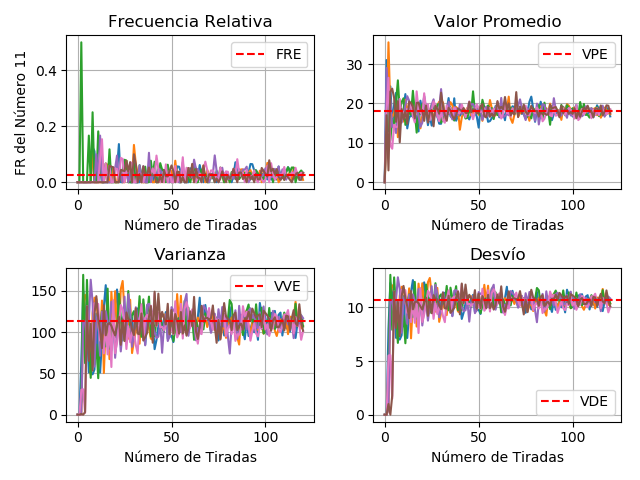
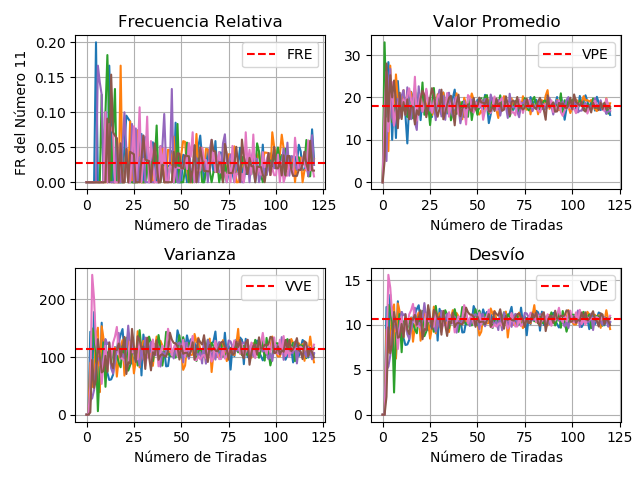
Average Results Array & Graphs, Improve Time Function & Window Position

diff --git a/TP1 - Roulette Analysis/__init__.py b/TP1 - Roulette Analysis/__init__.py
@@ -47,10 +47,30 @@ def calc_deviation_from_variance(variance):
 
 # Load (for Plotting) One Array of Results
 # Graphs Loaded: Relative Frecuency, Mean, Variance, Deviation (4-Graph Stack)
-def load_one_result_graphs(frecuencies, averages, variances, deviations, save):
-    # Subplots and Title Configs
+def load_one_result_graphs(frecuencies, averages, variances, deviations, save, final=False):
+    # Subplots Config
     fig, axs = plt.subplots(2, 2)
-    fig.canvas.set_window_title("Simulación de Ruleta: Análisis (de 0 a "+str(iterations)+" tiradas) - Stack 1")
+
+    # Title and Names Config
+    if final:
+        filename="final_"
+        message="3er 4-Stack de Gráficos"
+        fig.canvas.set_window_title("Análisis 3er Stack: Promedio de Arrays de Resultados (de 0 a "+str(iterations)+" tiradas)")
+    else:
+        filename="simple_"
+        message="1er 4-Stack de Gráficos"
+        fig.canvas.set_window_title("Análisis 1er Stack: 1 Array de Resultados (de 0 a "+str(iterations)+" tiradas)")
+
+    # Set Window Position
+    manager = plt.get_current_fig_manager() # Current Window's Manager
+    screen_x, screen_y = manager.window.wm_maxsize() # Screen Size
+    if final:
+        coord_x = str(int(screen_x/4))
+        coord_y = str(int(screen_y/2))
+    else:
+        coord_x = ("0")
+        coord_y = ("0")
+    manager.window.wm_geometry("+" + coord_x + "+" + coord_y) # Set Values
 
     # Relative Frecuencies Graph
     axs[0, 0].plot(frecuencies, 'tab:blue', label="FRN")
@@ -83,18 +103,27 @@ def load_one_result_graphs(frecuencies, averages, variances, deviations, save):
     # Save Plot (PNG Image)
     if save:
         try:
-            plt.savefig(save_route+"graph_iterations_"+str(iterations)+".png")
-            print("1er 4-Stack de Gráficos Guardado Correctamente")
+            plt.savefig(save_route + filename + "graph_iterations_" + str(iterations) + ".png")
+            print(message + " Guardado Correctamente")
         except:
-            print("1er 4-Stack de Gráficos NO fue guardado porque hubo un problema")
+            print(message + " NO fue guardado porque hubo un problema")
         print()
 
 # Load (for Plotting) Every Array of Results Simultaneously
 # Graphs Loaded: Relative Frecuency, Mean, Variance, Deviation (4-Graph Stack)
 def load_every_result_graphs(frecuencies, averages, variances, deviations, save):
-    # Subplots and Title Configs
+    # Subplots Config
     fig, axs = plt.subplots(2, 2)
-    fig.canvas.set_window_title("Simulación de Ruleta: Análisis (de 0 a "+str(iterations)+" tiradas) - Stack 2")
+
+    # Title Config
+    fig.canvas.set_window_title("Análisis 2do Stack: Todos los Arrays de Resultados (de 0 a "+str(iterations)+" tiradas)")
+
+    # Set Window Position
+    manager = plt.get_current_fig_manager() # Current Window's Manager
+    screen_x, screen_y = manager.window.wm_maxsize() # Screen Size
+    coord_x = str(int(screen_x/2))
+    coord_y = "0"
+    manager.window.wm_geometry("+" + coord_x + "+" + coord_y) # Set Values
 
     # Relative Frecuencies Graph
     axs[0, 0].plot(frecuencies[0], 'tab:blue')
@@ -147,11 +176,15 @@ def load_every_result_graphs(frecuencies, averages, variances, deviations, save)
     # Save Plot (PNG Image)
     if save:
         try:
-            plt.savefig(save_route+"multi_graph_iterations_"+str(iterations)+".png")
+            plt.savefig(save_route + "multi_graph_iterations_" + str(iterations) + ".png")
             print("2do 4-Stack de Gráficos Guardado Correctamente")
         except:
             print("2do 4-Stack de Gráficos NO fue guardado porque hubo un problema")
         print()
+
+# Time Measuement
+def measure_time():
+    return time.perf_counter()
 
 
 # Main
@@ -192,7 +225,7 @@ if __name__ == "__main__":
     print()
     
     # Timer (Execution Time Measurement)
-    start_time = time.time()
+    start_time = measure_time()
 
     # For Every Iteration: Mean-Deviaton-Variance Values & Relative Frecuency of One Number
     # Matix Re-Size: Arrays of Arrays, Needed for the Graph with few "Results" simultaniously
@@ -217,25 +250,35 @@ if __name__ == "__main__":
             
         # Feedback: Calculate and Show intermediate processing Time
         if calculate_time:
-            last_load_time = time.time() - start_time - acum_load_time
-            acum_load_time = time.time() - start_time
-            print("Array Resultado "+str(i+1)+" de "+str(results)+" completado en "+str(round(last_load_time, 6))+ " segundos")
+            last_load_time = measure_time() - start_time - acum_load_time
+            acum_load_time = measure_time() - start_time
+            print("Array Resultado " + str(i+1) + " de "+str(results) + " completado en " + str(round(last_load_time, 6)) + " segundos")
         else:
-            print("Array Resultado "+str(i+1)+" de "+str(results)+" completado")
+            print("Array Resultado " + str(i+1) + " de "+str(results) + " completado")
 
     # Total Calculation Time
     if calculate_time:
-        final_time = round(time.time() - start_time, 6)
-        print("Todos los Arrays de Resultados fueron completados en "+str(final_time)+ " segundos")
+        final_time = round(measure_time() - start_time, 6)
+        print("Todos los Arrays de Resultados fueron completados en " + str(final_time) + " segundos")
     else:
         print("Todos los Arrays de Resultados fueron completados")
     print()
     
+    # PLOTTING
+
     # First Array of Results' Graphs
     load_one_result_graphs(rfr_array[0], avg_array[0], var_array[0], dev_array[0], save)
     
     # Now, Comparing all the Results Array at the same Time
     load_every_result_graphs(rfr_array, avg_array, var_array, dev_array, save)
+
+    # New Result Array with the Average of all Results Arrays
+    final_rfr_array = (rfr_array[0] + rfr_array[1] + rfr_array[2] + rfr_array[3] + rfr_array[4] + rfr_array[5]) / results
+    final_avg_array = (avg_array[0] + avg_array[1] + avg_array[2] + avg_array[3] + avg_array[4] + avg_array[5]) / results
+    final_var_array = (var_array[0] + var_array[1] + var_array[2] + var_array[3] + var_array[4] + var_array[5]) / results
+    final_dev_array = (dev_array[0] + dev_array[1] + dev_array[2] + dev_array[3] + dev_array[4] + dev_array[5]) / results
+
+    load_one_result_graphs(final_rfr_array, final_avg_array, final_var_array, final_dev_array, save, final=True)
 
     # Plotting all the Graphs
     plt.show()
